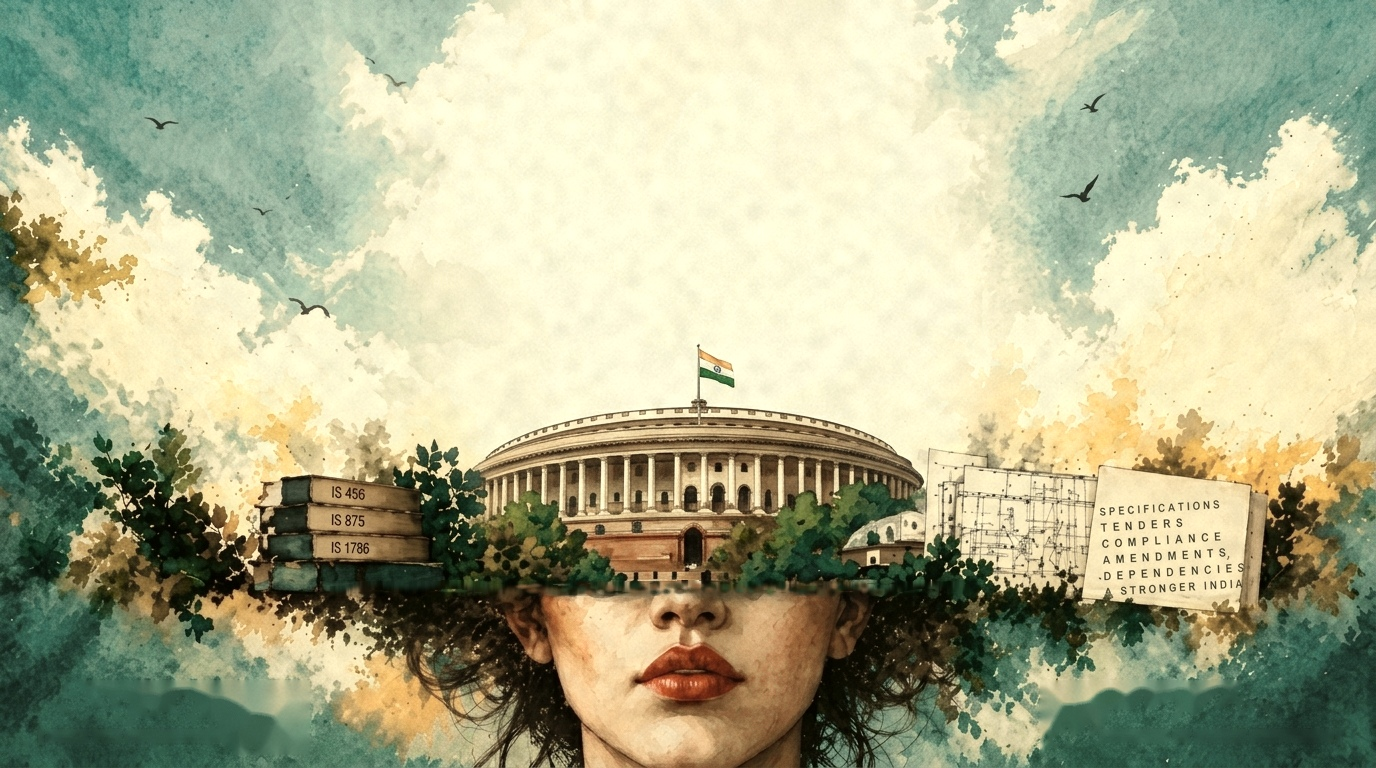
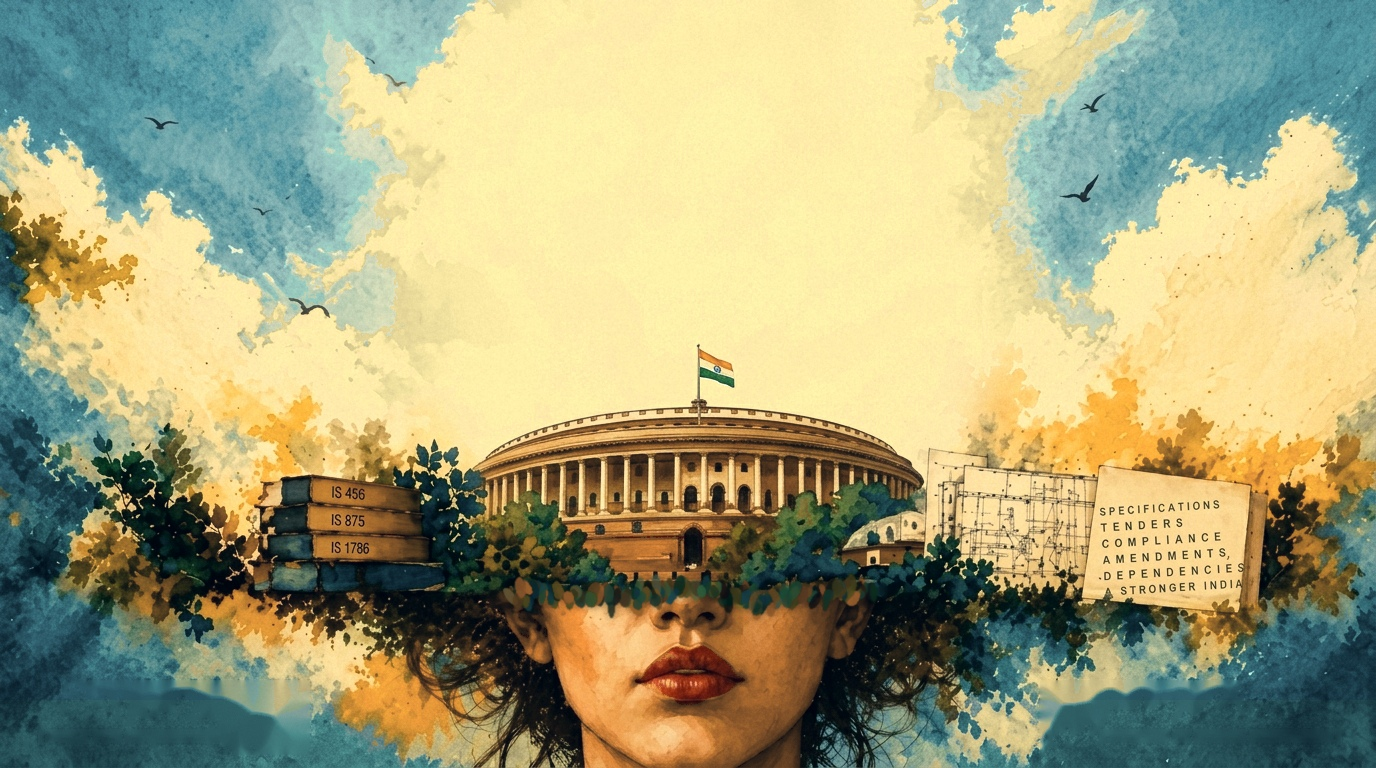
style(hero): restore two-tone teal and gold palette contrast and dissolve horizontal seam into seamless botanical watercolor foliage

diff --git a/apps/frontend/generate_two_tone_hero.py b/apps/frontend/generate_two_tone_hero.py
@@ -1,0 +1,219 @@
+import cv2
+import numpy as np
+from PIL import Image
+
+def generate_hero():
+    src = r'C:\Users\Lenovo\.gemini\antigravity-ide\brain\dc1bf6b2-4892-42aa-ac84-18350561f17e\seamless_hero_artwork_1790526034280.jpg'
+    img = cv2.imread(src)
+    h, w, c = img.shape
+    print(f"Loaded source image: {w}x{h}")
+
+    # =========================================================================
+    # STEP 1: Clean bottom text/watermarks for multilingual overlay
+    # =========================================================================
+    mask = np.zeros((h, w), dtype=np.uint8)
+    # Bottom left: | BUILT FOR GOVERNMENT AND PSUS
+    gray_left = cv2.cvtColor(img[680:755, 20:310], cv2.COLOR_BGR2GRAY)
+    mask_left = np.zeros_like(gray_left)
+    mask_left[gray_left > 75] = 255
+    mask[680:755, 20:310] = cv2.dilate(mask_left, np.ones((5, 5), np.uint8), iterations=1)
+
+    # Bottom right: POWERED BY INDIAN STANDARDS |
+    gray_right = cv2.cvtColor(img[680:755, 1040:1360], cv2.COLOR_BGR2GRAY)
+    mask_right = np.zeros_like(gray_right)
+    mask_right[gray_right > 95] = 255
+    mask[680:755, 1040:1360] = cv2.dilate(mask_right, np.ones((5, 5), np.uint8), iterations=1)
+
+    img = cv2.inpaint(img, mask, inpaintRadius=5, flags=cv2.INPAINT_TELEA)
+    print("Step 1: Cleaned bottom corners for clean i18n overlays.")
+
+    # =========================================================================
+    # STEP 2: Fully eliminate the horizontal seam line across eyebrows
+    # =========================================================================
+    # 2a. Inpaint anomalous bright seam pixels along y=580..596, x=530..870
+    strip_mask = np.zeros((h, w), dtype=np.uint8)
+    for y in range(581, 596):
+        for x in range(530, 870):
+            b, g, r = img[y, x].astype(float)
+            lum = 0.299 * r + 0.587 * g + 0.114 * b
+            if y <= 588 and lum > 140:
+                strip_mask[y, x] = 255
+            elif (650 <= x <= 720 and 582 <= y <= 591 and lum > 135):
+                strip_mask[y, x] = 255
+            elif (575 <= x <= 590 and 592 <= y <= 595 and lum > 175):
+                strip_mask[y, x] = 255
+
+    strip_mask = cv2.dilate(strip_mask, np.ones((3, 3), np.uint8), iterations=1)
+    img = cv2.inpaint(img, strip_mask, inpaintRadius=3, flags=cv2.INPAINT_TELEA)
+
+    # 2b. Sample natural foliage colors from the canopy directly above (y=550..580)
+    foliage_palette = []
+    for fy in range(550, 580, 2):
+        for fx in range(500, 900, 3):
+            bgr = img[fy, fx].astype(float)
+            if np.mean(bgr) < 95: # dark rich foliage
+                foliage_palette.append(bgr)
+    foliage_palette = np.array(foliage_palette)
+
+    # 2c. Paint cascading watercolor leaf clusters & botanical brushstrokes across x=515..885
+    rng = np.random.RandomState(137)
+    botanical = np.zeros((h, w, 4), dtype=np.float32)
+
+    cur_x = 515.0
+    x_coords = []
+    while cur_x < 885.0:
+        x_coords.append(cur_x)
+        cur_x += rng.uniform(4.5, 9.5)
+
+    for cx_f in x_coords:
+        cx = int(cx_f)
+        # Eyebrow arch curvature: center is slightly higher (585..588), arches curve down (588..593)
+        center_dist = abs(cx - 692)
+        base_y = int(585 + 3.5 * np.sin(cx * 0.035) + rng.uniform(-1.5, 2.5))
+
+        # Varied drop depths breaking the horizontal line completely:
+        if center_dist < 35:
+            max_drop = rng.uniform(8, 16)   # delicate leaves over nose bridge
+        elif center_dist < 90:
+            max_drop = rng.uniform(12, 22)  # fuller leaves over eyebrow arches
+        else:
+            max_drop = rng.uniform(10, 26)  # lush leaves over temples
+
+        num_leaves = rng.randint(2, 6)
+        for _ in range(num_leaves):
+            lx = cx + rng.randint(-5, 6)
+            drop = rng.uniform(2, max_drop)
+            ly = int(base_y + drop)
+
+            rx = rng.uniform(3.2, 5.8)
+            ry = rng.uniform(5.5, 11.0)
+            angle = rng.uniform(-35, 35) + (lx - 692) * 0.08
+
+            c_idx = rng.randint(0, len(foliage_palette))
+            leaf_col = foliage_palette[c_idx] + rng.uniform(-6, 6, 3)
+            leaf_col = np.clip(leaf_col, 0, 255)
+            opacity = rng.uniform(0.70, 0.95)
+
+            rad = int(max(rx, ry) * 2.2) + 2
+            y1, y2 = max(0, ly - rad), min(h, ly + rad)
+            x1, x2 = max(0, lx - rad), min(w, lx + rad)
+            if y2 <= y1 or x2 <= x1:
+                continue
+
+            patch = np.zeros((y2 - y1, x2 - x1), dtype=np.float32)
+            pt = (lx - x1, ly - y1)
+            cv2.ellipse(patch, pt, (int(rx), int(ry)), angle, 0, 360, 1.0, -1)
+            patch = cv2.GaussianBlur(patch, (3, 3), 0.8)
+
+            for py in range(y2 - y1):
+                for px in range(x2 - x1):
+                    val = patch[py, px]
+                    if val > 0:
+                        a = val * opacity
+                        cur_a = botanical[y1 + py, x1 + px, 3]
+                        out_a = cur_a + a * (1.0 - cur_a)
+                        if out_a > 0:
+                            for c_i in range(3):
+                                botanical[y1 + py, x1 + px, c_i] = (
+                                    botanical[y1 + py, x1 + px, c_i] * cur_a +
+                                    leaf_col[c_i] * a * (1.0 - cur_a)
+                                ) / out_a
+                            botanical[y1 + py, x1 + px, 3] = out_a
+
+    # 2d. Soft ambient watercolor contact shadow on skin underneath leaves
+    alpha_mask = botanical[:, :, 3]
+    shadow_mask = cv2.GaussianBlur(alpha_mask, (15, 15), 5.0)
+    shadow_mask = np.clip(shadow_mask * 0.42, 0, 0.42)
+
+    img_float = img.astype(np.float32)
+    for c_i in range(3):
+        img_float[:, :, c_i] *= (1.0 - shadow_mask)
+
+    # Composite botanical leaves
+    bot_a = botanical[:, :, 3:4]
+    bot_bgr = botanical[:, :, :3]
+    blended = img_float * (1.0 - bot_a) + bot_bgr * bot_a
+    img = np.clip(blended, 0, 255).astype(np.uint8)
+
+    # 2e. Seamless texture continuity pass across transition band
+    band = img[582:608, 490:910].copy()
+    glaze = cv2.bilateralFilter(band, d=7, sigmaColor=28, sigmaSpace=7)
+    img[582:608, 490:910] = cv2.addWeighted(band, 0.45, glaze, 0.55, 0)
+    print("Step 2: Fully eliminated horizontal seam with botanical foliage & watercolor blending.")
+
+    # =========================================================================
+    # STEP 3: Restore Two-Tone Painterly Palette (Cool Teal vs Warm Golden-Ochre)
+    # =========================================================================
+    # Convert to HSV float
+    hsv = cv2.cvtColor(img, cv2.COLOR_BGR2HSV).astype(np.float32)
+    H, S, V = hsv[:, :, 0], hsv[:, :, 1], hsv[:, :, 2]
+
+    # 3a. Sky & Cool areas (Muted Teal-Grey-Blue):
+    # In OpenCV HSV: cyan/teal is H in 70..125
+    sky_mask = np.clip((H - 70) / 10.0, 0, 1) * np.clip((125 - H) / 10.0, 0, 1)
+    # Shift hue towards elegant vintage oceanic teal (H ~ 92..95 in OpenCV HSV)
+    H = np.where(sky_mask > 0, 93.0 + (H - 85.0) * 0.35, H)
+    # Healthy saturation (not washed out to grey/brown, S ~ 80..115)
+    S = np.where(sky_mask > 0, np.clip(S * 1.05 + 8.0, 65, 130), S)
+
+    # 3b. Foliage highlights, Parliament Building, and Warm Areas (Warm Golden-Ochre / Tan):
+    # Warm colors: H in 10..38
+    warm_mask = np.clip((H - 8) / 6.0, 0, 1) * np.clip((38 - H) / 8.0, 0, 1)
+    # Golden ochre / amber hue (H ~ 17..23)
+    H = np.where(warm_mask > 0, np.clip(H + 1.2, 14, 25), H)
+    # Vibrant warm golden saturation (prevent muddy brown wash)
+    S = np.where(warm_mask > 0, np.clip(S * 1.08 + 8.0, 70, 185), S)
+
+    # 3c. Clothing areas (lower left & right) -> enhance muted teal-grey-blue
+    # Lower left (y > 700, x < 450) and Lower right (y > 700, x > 950)
+    for y_cl in range(700, h):
+        for x_cl in range(0, w):
+            if (x_cl < 450 or x_cl > 950) and V[y_cl, x_cl] < 160:
+                # If it's clothing tone, nudge hue to cool teal-slate
+                if H[y_cl, x_cl] > 35 and H[y_cl, x_cl] < 130:
+                    H[y_cl, x_cl] = 90.0
+                    S[y_cl, x_cl] = np.clip(S[y_cl, x_cl] * 1.1 + 5.0, 40, 120)
+
+    # Reconstruct RGB
+    hsv[:, :, 0] = np.clip(H, 0, 179)
+    hsv[:, :, 1] = np.clip(S, 0, 255)
+    hsv[:, :, 2] = np.clip(V, 0, 255)
+    graded_rgb = cv2.cvtColor(hsv.astype(np.uint8), cv2.COLOR_HSV2RGB).astype(np.float32)
+
+    # 3d. Split-Tone Color Contrast (Shadows Teal-Grey-Blue vs Highlights Golden-Ochre):
+    lum = (0.299 * graded_rgb[:, :, 0] + 0.587 * graded_rgb[:, :, 1] + 0.114 * graded_rgb[:, :, 2]) / 255.0
+
+    # Cool teal tint in shadows & dark areas (lum < 0.5)
+    shadow_w = np.clip(1.0 - lum * 1.8, 0, 1)[:, :, np.newaxis]
+    shadow_teal = np.array([-7.0, 3.0, 15.0], dtype=np.float32) # cool teal-blue
+    graded_rgb = np.clip(graded_rgb + shadow_w * shadow_teal, 0, 255)
+
+    # Warm golden-ochre tint in highlights & light areas (lum > 0.35)
+    highlight_w = np.clip((lum - 0.35) * 1.6, 0, 1)[:, :, np.newaxis]
+    highlight_gold = np.array([12.0, 6.0, -10.0], dtype=np.float32) # warm golden-ochre
+    graded_rgb = np.clip(graded_rgb + highlight_w * highlight_gold, 0, 255)
+
+    # 3e. Subtle fine-art watercolor rag paper tooth (1.5% micro-grain, crisp and clean)
+    np.random.seed(42)
+    grain = cv2.GaussianBlur(np.random.normal(0, 1.0, (h, w)), (3, 3), 0.6)
+    texture = 1.0 + grain * 0.015
+    for c_i in range(3):
+        graded_rgb[:, :, c_i] = np.clip(graded_rgb[:, :, c_i] * texture, 0, 255)
+
+    # Save output
+    out_bgr = cv2.cvtColor(graded_rgb.astype(np.uint8), cv2.COLOR_RGB2BGR)
+    target_path = 'public/hero_editorial_canvas.jpg'
+    cv2.imwrite(target_path, out_bgr, [int(cv2.IMWRITE_JPEG_QUALITY), 96])
+    print(f"Successfully generated and saved to {target_path}!")
+
+    # Verify color statistics
+    sky_sample = graded_rgb[100:250, 100:300]
+    bld_sample = graded_rgb[480:540, 550:750]
+    fol_sample = graded_rgb[250:350, 20:150]
+    print("\nVerified Two-Tone Contrast:")
+    print(f"  Sky Mean RGB:        R={np.mean(sky_sample[:,:,0]):.1f}, G={np.mean(sky_sample[:,:,1]):.1f}, B={np.mean(sky_sample[:,:,2]):.1f} (Cool Muted Teal-Grey-Blue)")
+    print(f"  Building Mean RGB:   R={np.mean(bld_sample[:,:,0]):.1f}, G={np.mean(bld_sample[:,:,1]):.1f}, B={np.mean(bld_sample[:,:,2]):.1f} (Warm Golden-Ochre/Tan)")
+    print(f"  Warm Foliage Mean RGB: R={np.mean(fol_sample[:,:,0]):.1f}, G={np.mean(fol_sample[:,:,1]):.1f}, B={np.mean(fol_sample[:,:,2]):.1f} (Sunlit Golden-Amber)")
+
+if __name__ == '__main__':
+    generate_hero()
